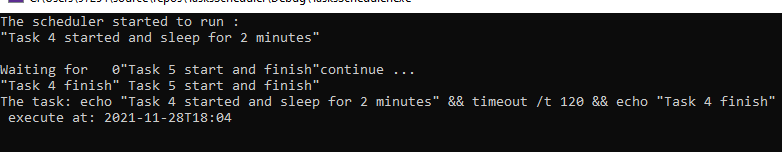
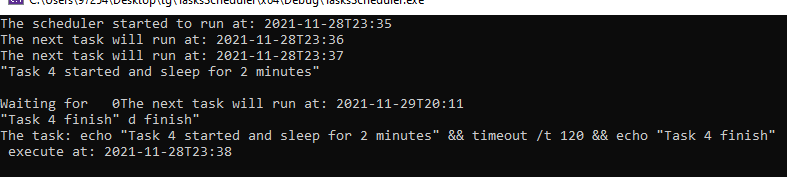
Added examples to README.md file

diff --git a/Source.cpp b/Source.cpp
@@ -7,56 +7,68 @@
 #include <queue>
 #include <thread>
 #include <chrono>
-#include <future>
 
 #include "croncpp.h" // Taken from https://github.com/mariusbancila/croncpp for cron pattern
 
 
-typedef struct Task {
+struct Task {
     std::string command;
     cron::cronexpr cron_expression;
     std::time_t next_execution;
 
-    bool operator<(Task const& other_task) { return next_execution < other_task.next_execution; }
-    friend std::ostream& operator<<(std::ostream& os, const Task& task) {
-        return os << "The task: " << task.command << "\n" << " execute at: " << std::put_time(localtime(&task.next_execution), "%FT%H:%M");
+    bool operator<(Task const &other_task) {
+        return next_execution < other_task.next_execution;
+    } // Used in order to sort the queue.
+
+    friend std::ostream &operator<<(std::ostream &os, const Task &task) {
+        return os << "The task: " << task.command << "\n" << " execute at: "
+                  << std::put_time(localtime(&task.next_execution), "%FT%H:%M");
     };
 };
 
 int Start();
-void ParseTasksCSV(std::deque<Task>&, std::string&);
-Task CreateTask(std::string&, std::string&, std::string&, std::string&);
-void ExecuteTasks(std::deque<Task>&);
+
+void ParseTasksCSV(std::deque <Task> &, std::string &);
+
+Task CreateTask(std::string &, std::string &, std::string &, std::string &);
+
+void ExecuteTasks(std::deque <Task> &);
+
 void ExecuteTask(std::string);
+
+const char *const DAYS[] = {"MON", "TUE", "WED", "THU", "FRI", "SAT", "SUN"};
 
 int main() {
     return Start();
 }
 
 /**
- * Loading the CSV file and and initialize the queue of tasks,
- * then calls functions in chronological order.
+ * Runs TasksScheduler.
  */
 int Start() {
+    auto now{std::chrono::system_clock::to_time_t(std::chrono::system_clock::now())};
     std::string file_name = "./tasks.csv";
-    std::deque<Task> tasks_queue;
-    std::cout << "The scheduler started to run: " << std::endl;
+    std::deque <Task> tasks_queue;
+
+    std::cout << "The scheduler started to run at: " << std::put_time(localtime(&now), "%FT%H:%M") << std::endl;
     ParseTasksCSV(tasks_queue, file_name);
     ExecuteTasks(tasks_queue);
+
     return 0;
 }
 
 /**
  * Parse the CSV file and populate the tasks queue.
-
  * 
  * @param tasks_queue - An empty queue which stores the tasks.
  * @param file_name - The path to the tasks CSV.
  */
-void ParseTasksCSV(std::deque<Task>& tasks_queue, std::string& file_name) {
+void ParseTasksCSV(std::deque <Task> &tasks_queue, std::string &file_name) {
     std::ifstream tasks_csv(file_name);
-    if (!tasks_csv.is_open()) std::cerr << "ERROR: Could not open file" << '\n'; // TODO: Add exit
-
+    if (!tasks_csv.is_open()) {
+        std::cerr << "ERROR: Could not open file" << '\n';
+        exit(1);
+    }
     std::string minute, hour, day_of_week, command;
     getline(tasks_csv, minute, '\n'); // Ignores the first row (CSV title) 
 
@@ -68,9 +80,10 @@ void ParseTasksCSV(std::deque<Task>& tasks_queue, std::string& file_name) {
         tasks_queue.push_front(CreateTask(minute, hour, day_of_week, command));
     }
 
-    std::sort(std::begin(tasks_queue), std::end(tasks_queue));
     tasks_csv.close();
+    std::sort(std::begin(tasks_queue), std::end(tasks_queue));
 }
+
 /**
  * Returns a Task object, built from received parameters and the calculated next execution time.
  * 
@@ -80,42 +93,52 @@ void ParseTasksCSV(std::deque<Task>& tasks_queue, std::string& file_name) {
  * @param command - The command which will be executed.
  * @return task - The constructed task
  */
-Task CreateTask(std::string& minute, std::string& hour, std::string& day_of_week, std::string& command) {
-    std::string cron_str = "* " + minute + " " + hour + " * * " + day_of_week; // cron expression represnting: at H:M AM, only on (Day of week)
+Task CreateTask(std::string &minute, std::string &hour, std::string &day_of_week, std::string &command) {
+    std::string cron_str = "* " + minute + " " + hour + " * * " + DAYS[stoi(day_of_week)];
+    // cron expression representing: at H:M AM, only on (Day of week)
     auto cron = cron::make_cron(cron_str);
-    Task task{ command, cron, cron::cron_next(cron, std::time(0)) };
+    Task task{command, cron, cron::cron_next(cron, std::time(0))};
+
     return task;
 }
+
 /**
  * Execute the given command as system call.
-
  *
  * @param command - The command
  */
 void ExecuteTask(std::string command) {
     system(command.c_str());
-    auto now{ std::chrono::system_clock::to_time_t(std::chrono::system_clock::now()) };
-    std::cout << "The task: " << command << "\n" << " execute at: " << std::put_time(localtime(&now), "%FT%H:%M") << std::endl;
-    
+    auto now{std::chrono::system_clock::to_time_t(std::chrono::system_clock::now())};
+    std::cout << "The task: " << command << "\n" << " execute at: "
+    << std::put_time(localtime(&now), "%FT%H:%M") << std::endl;
+
 }
+
 /**
- * Pulls tasks while the queue is not empty,
- * changing the thread to sleep until his exection time,
- * executing the tasks in diffrent threads,
- * then pushes the task to the end of the queue to create circle of tasks.
+ * Fetches tasks from the task queue and runs them according to their execution time
+ * The tasks are then returned to the bottom of the queue in order to create a never-ending
+ * cycle of tasks (Possible due to the fact that they all run once a week)
  *
  * @param tasks_queue - A queue full of tasks waiting to be executed.
  */
-void ExecuteTasks(std::deque<Task>& tasks_queue) {
-    std::vector<std::thread> workers;
+void ExecuteTasks(std::deque <Task> &tasks_queue) {
+    std::vector <std::thread> workers;
 
     while (!tasks_queue.empty()) {
         Task current_task = tasks_queue.front();
-        std::this_thread::sleep_until(std::chrono::system_clock::from_time_t(current_task.next_execution)); //The time that thread should wait until it's scheduled time.
+        Task next_task = current_task;
+
+        std::cout << "The next task will run at: "
+        << std::put_time(localtime(&next_task.next_execution), "%FT%H:%M") << std::endl;
+
+        next_task.next_execution = cron::cron_next(next_task.cron_expression, next_task.next_execution);
+        std::this_thread::sleep_until(std::chrono::system_clock::from_time_t(current_task.next_execution));
+        //The time that thread should wait until it's scheduled time.
 
         workers.push_back(std::thread(ExecuteTask, current_task.command));
-        tasks_queue.push_back(current_task);
+        tasks_queue.push_back(next_task);
         tasks_queue.pop_front();
     }
-    
+
 }

diff --git a/README.md b/README.md
@@ -1,16 +1,18 @@
-# TaskScheduler
+# TasksScheduler
+
 ---
-SaskScheduler is a system which loads runs scheduled tasks by using a cron-like pattern
+TasksScheduler is a system which runs scheduled tasks by using a cron-like pattern
 
 ## Description
+
 ---
 TasksScheduler automatically executes scheduled tasks.
 The system loads tasks from a CSV file and executes them automatically when scheduled.
-The tasks are executed sequentially and also supports simultaneously executions by using a multithreaded architecture.
+The tasks are executed sequentially and also supports simultaneous executions by using a multithreaded architecture.
 
 #### Task - 
 ```c++
-typedef struct Task {
+struct Task {
     std::string command;
     cron::cronexpr cron_expression;
     std::time_t next_execution;
@@ -19,11 +21,6 @@ typedef struct Task {
 
 The CSV file has 4 columns which represent the command and the time in which it needs to be executed.
 
-Value range:
-- Minute: 0-59
-- Hour: 0-23
-- Day of week: 0-6, where 0 = Monday, 6 = Sunday
-- Command: text
 
 #### CSV file structure: 
 minute | hour | day_of_week  |  command
@@ -38,26 +35,23 @@ minute | hour | day_of_week  |  command
 
 #### The time at this run - Sunday 18:34 for CSV the example
 
-#### Task  4 and 5 should execute.
+#### Task 4 and 5 should execute one after the other.
 ![CSV_example](./images/CSV_example.png)
 #### Scheduler start:
 ![scheduler_start](./images/scheduler_start.png) 
 #### Task 4 started and changed to sleep for 2 minutes:
 ![task4_start_and_sleep](./images/task4_start_and_sleep.png)
-#### Task 5 arrive and execute before task 4: 
+#### Task 5 arrives and executes before task 4: 
 ![task5_start_and_execute](./images/task5_start_and_execute.png)
-#### Task 4 finish his sleep time and executed:
+#### Task 4 finish its sleep time and executed:
 ![task4_execute](./images/task4_execute.png)
 
-# Installation:
+# Dependencies:
+
+---
 This project was written using Microsoft Visual Studio 2019 and C++14, other versions may not work.
-```
-gcc source.cpp -o TasksScheduler.exe
-```
-Then run:
-```
-TasksScheduler.exe
-```
 
 ## Credits:
+
+---
 `croncpp.h`: https://github.com/mariusbancila/croncpp
